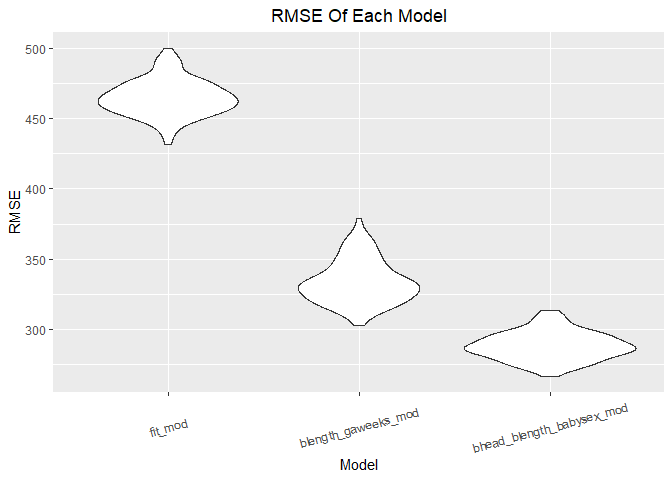
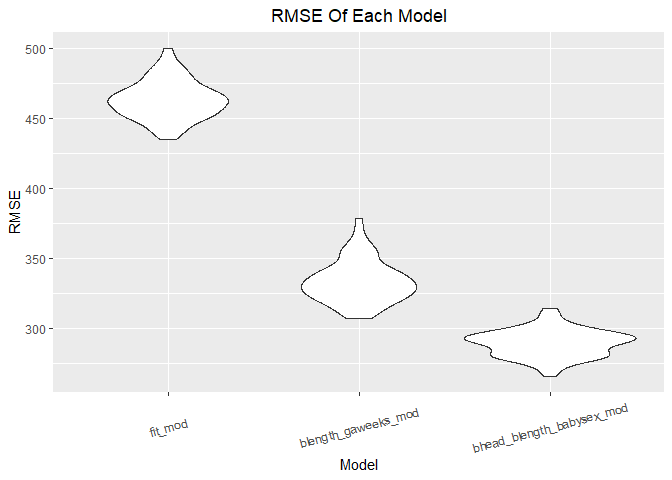
comments my model

diff --git a/p8105_hw6_bf2506.md b/p8105_hw6_bf2506.md
@@ -356,4 +356,7 @@ to the plot of “RMSE Of Each Model”(cross-validation), my model has the
 biggest RMSE, so mine seems the worst. And the third model (using head
 circumference, length, sex, and all interactions) appears to be doing
 better than the second model (using length at birth and gestational age
-as predictors). It has a low RMSE.
+as predictors). It has a low RMSE. I think it is because I did not use
+data that can only be measured at birth (e.g., bhead, blength). My
+hypothetical structural thinking considers a regression model when
+infant birth data are not available. That is why my RMSE is bigger.
